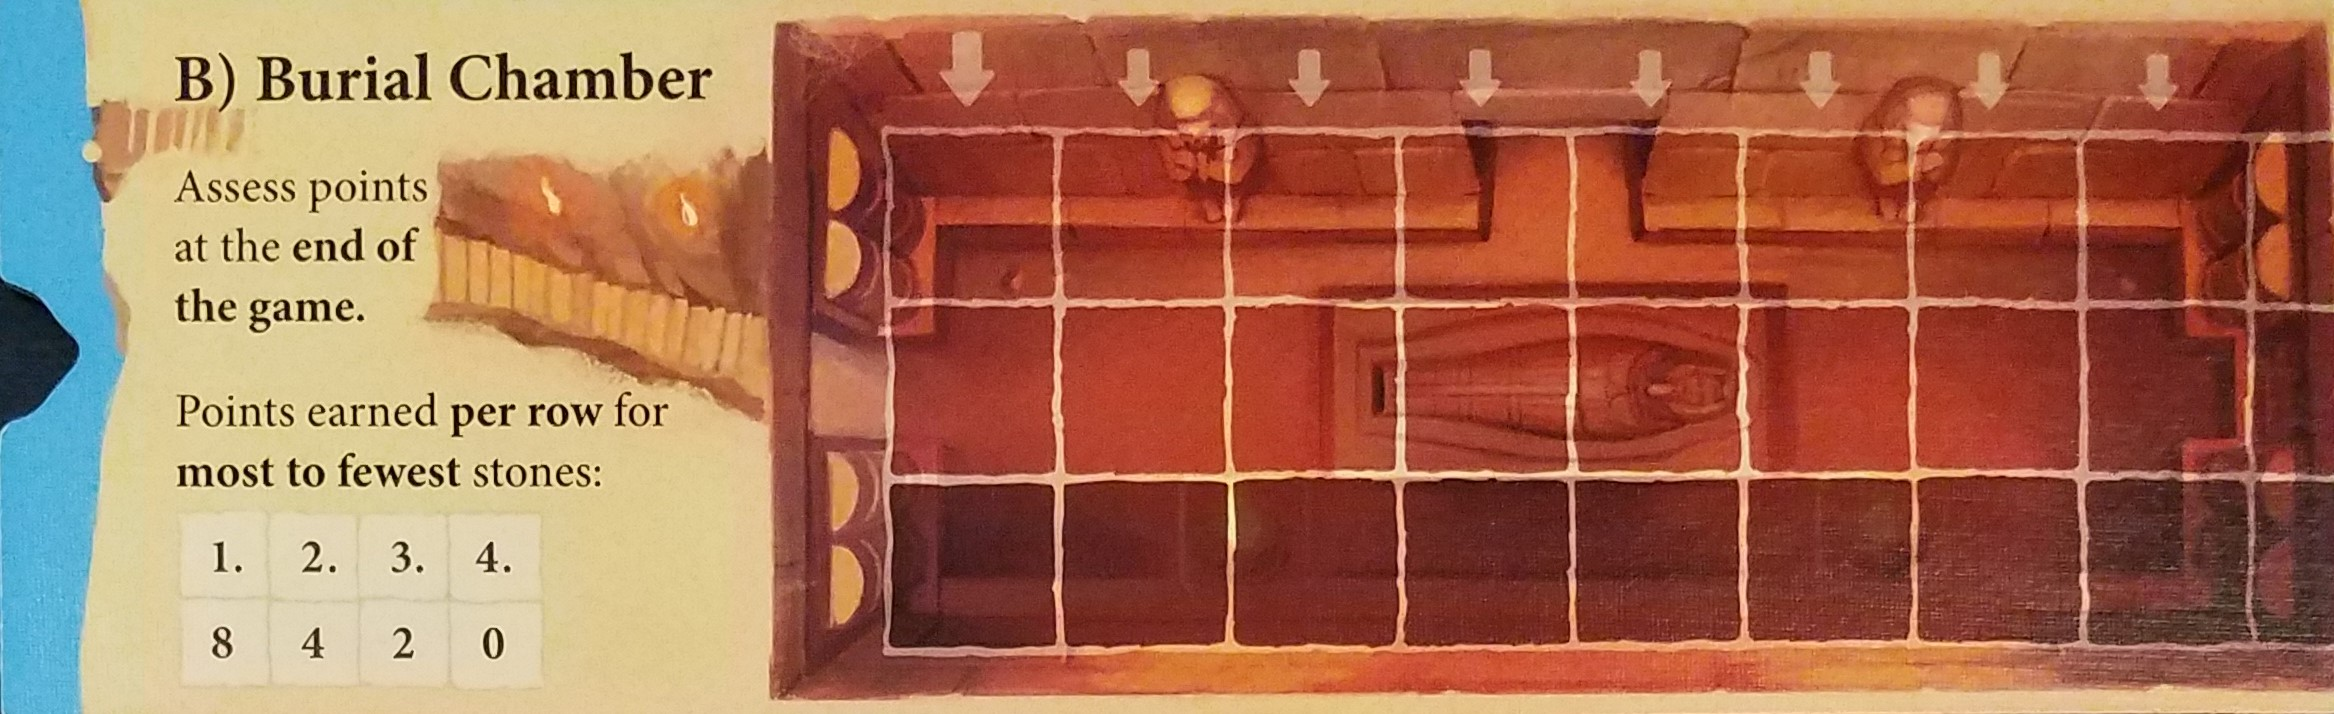
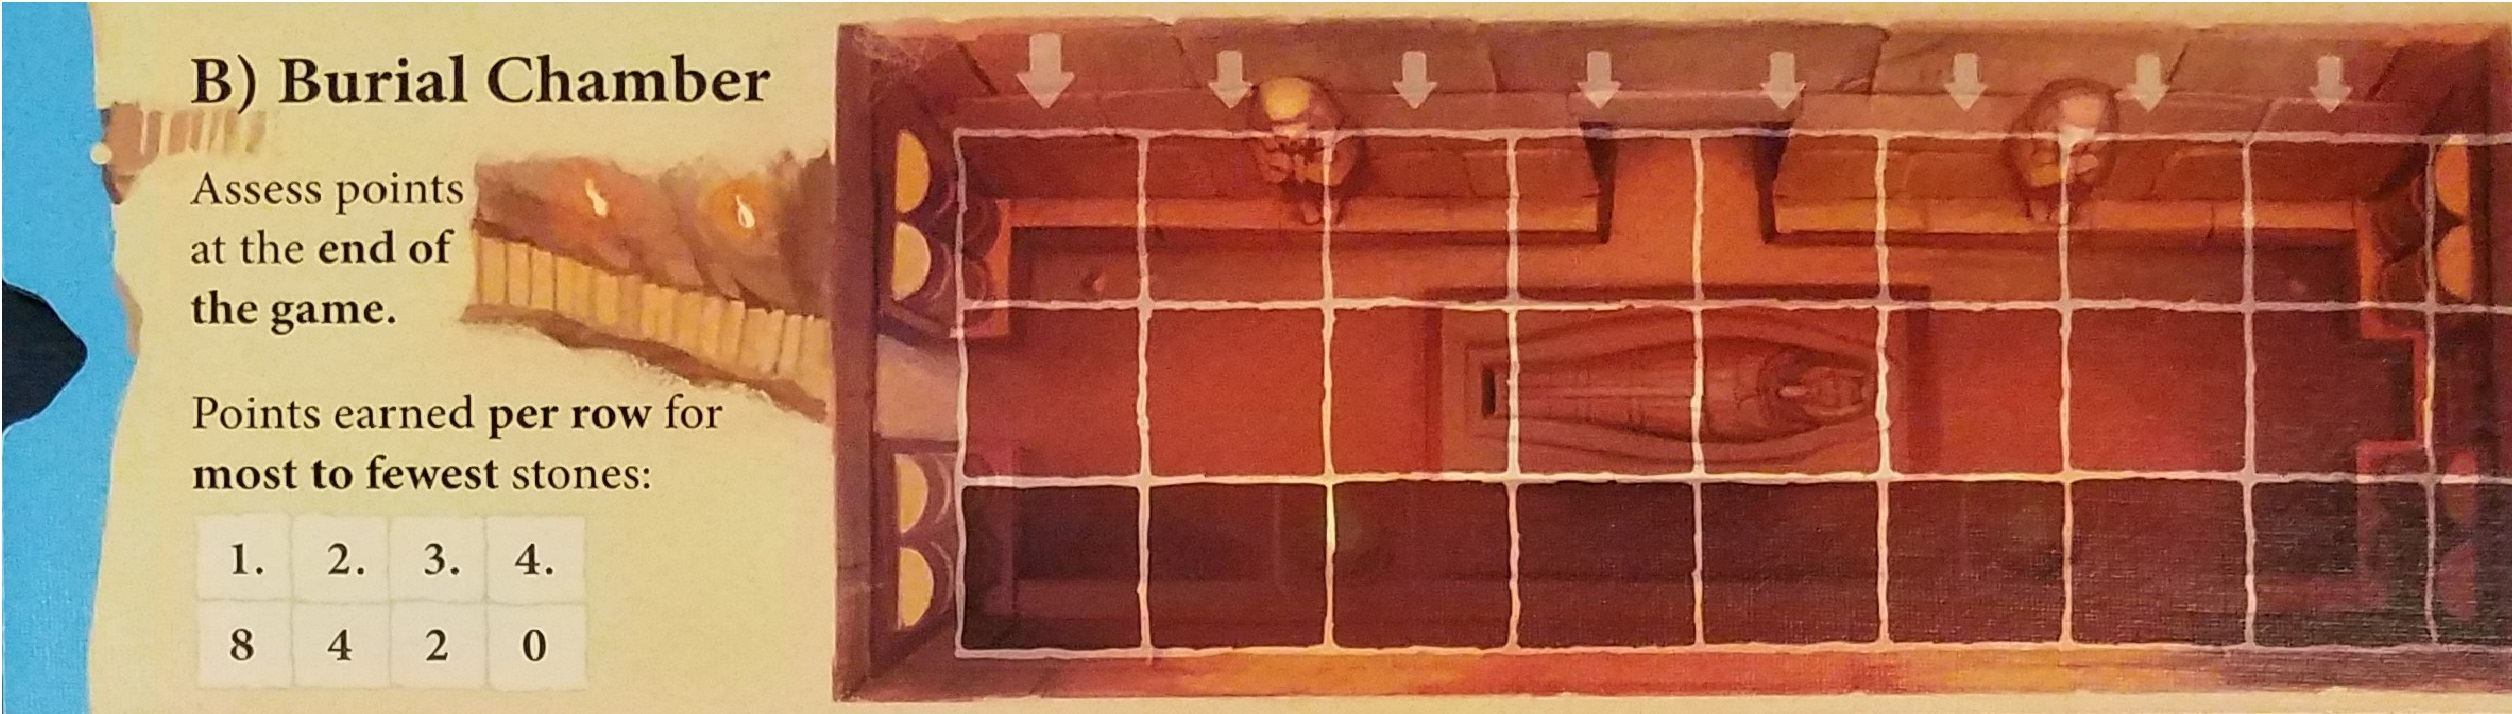
area images set

diff --git a/style.css b/style.css
@@ -140,7 +140,6 @@ body {
 .burial_chamber{
     height: 90%;
     width: 90%;
-    background-color: goldenrod;
     display: flex;
     flex-direction: column;
     flex-wrap: wrap;
@@ -269,6 +268,13 @@ body {
 
 .market-card-container {
     background-color: lightcyan;
+    /* background-image: url(game_pieces/market.jpg);
+    background-repeat: no-repeat;
+    background-size: cover; */
+    /* max-width: 100%;
+    max-height: auto;
+    width: 100px;
+    height: 100px; */
     float: right;
     height: 100%;
     width: 65%;
@@ -277,6 +283,15 @@ body {
     flex-wrap: wrap;
     justify-content: space-around;
     align-items: center;
+    position: relative;
+}
+
+.market-card-container > img {
+    max-width: 100%;
+    max-height: auto;
+    width: 630px;
+    height: 150px;
+    position: absolute;
 }
 
 .card {
@@ -284,6 +299,7 @@ body {
     border: 1px solid black;
     height: 40%;
     width: 30%;
+    /* z-index: 1; */
 }
 
 .pyramid {
@@ -318,6 +334,9 @@ body {
 
 .pyramid-container {
     background-color: orange;
+    background-image: url(game_pieces/pyramids.jpg);
+    background-repeat: no-repeat;
+    background-size: contain;
     height: 100%;
     width: 65%;
     float: right;
@@ -327,7 +346,7 @@ body {
 }
 
 .pyramid-block-container {
-    background-color: lightyellow;
+    background-color: transparent;
     height: 100%;
     width: 35%;
     text-align: center;
@@ -339,16 +358,16 @@ body {
 }
 
 .pyramid-block {
-    background-color: white;
-    border: 1px solid black;
+    background-color: transparent;
+    /* border: 1px solid black; */
     box-sizing: border-box;
     height: 33.1%;
     width: 30%;
 }
 
 .pyramid-level2-container {
-    background-color: purple;
-    border: 1px solid black;
+    background-color: transparent;
+    /* border: 1px solid black; */
     position: absolute;
     height: 70%;
     width: 55%;
@@ -358,16 +377,16 @@ body {
 }
 
 .pyramid-block-2nd {
-    background-color: white;
-    border: 1px solid black;
+    background-color: transparent;
+    /* border: 1px solid black; */
     box-sizing: border-box;
     height: 50%;
     width: 50%;
 }
 
 .pyramid-block-3rd {
-    background-color: white;
-    border: 1px solid black;
+    background-color: transparent;
+    /* border: 1px solid black; */
     box-sizing: border-box;
     height: 33%;
     width: 30%;
@@ -405,7 +424,10 @@ body {
 }
 
 .temple-block-container {
-    background-color: blue;
+    background-color: rgb(245, 236, 116);
+    background-image: url(game_pieces/temple.jpg);
+    background-repeat: no-repeat;
+    background-size: contain;
     height: 100%;
     width: 65%;
     float: right;
@@ -452,7 +474,10 @@ body {
 }
 
 .burial-chamber-container {
-    background-color: lightpink;
+    background-image: url('game_pieces/burial_chamber.jpg');
+    background-repeat: no-repeat;
+    background-size: contain;
+    /* background-position: center; */
     height: 100%;
     width: 65%;
     display: flex;
@@ -510,6 +535,9 @@ body {
 
 .obelisks-container {
     background-color: antiquewhite;
+    background-image: url(game_pieces/obelisks.jpg);
+    background-repeat: no-repeat;
+    background-size: contain;
     height: 100%;
     width: 65%;
     float: right;
@@ -517,7 +545,7 @@ body {
 }
 
 .obelisks-column {
-    background-color: gold;
+    /* background-color: gold; */
     box-sizing: border-box;
     height: 100%;
     width: 25%;

diff --git a/index.html b/index.html
@@ -3,8 +3,6 @@
 <head>
     <title>Imhotep Hackathon</title>
     <link rel="stylesheet" href="style.css">
-
-
     <script src="https://ajax.googleapis.com/ajax/libs/jquery/3.3.1/jquery.min.js"></script>
     <script src="ships.js"></script>
     <script src="burial_chamber.js"></script>
@@ -61,6 +59,7 @@
                         <button class="market-dock-button">Dock in Harbor</button>
                     </div>
                 <div class="market-card-container">
+                    <img src="game_pieces/market.jpg" alt="">
                     <div class="card" id="card1">card 1</div>
                     <div class="card" id="card1">card 2</div>
                     <div class="card" id="card3">card 3</div>
